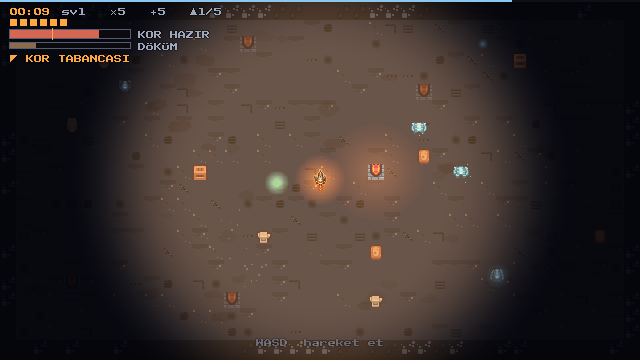
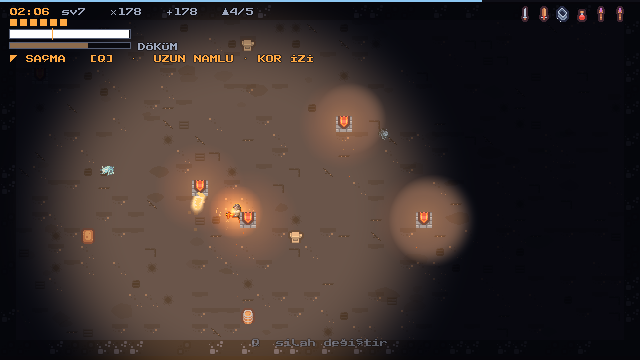
Tanitim varliklari 343bd49'dan yeniden uretildi + yakalama betigi duzeltildi
Eski varliklar 15 Eylul 12:40'ta alinmisti. Sonrasinda tema, menu ve dil
dosyalari degisti (58aef31, f227c41, 343bd49) -- yani kapak ve GIF
yayindaki oyunu gostermiyordu. ONAY-BEKLEYENLER'deki yayin oncesi
3. adim buydu.

Yakalama betigi kok nedeninden duzeltildi. Eski gif_cek.gd oyuncuya HIC
girdi vermiyordu; sadece isiyi ramp edip kare yaziyordu. 8ea08c5 (zorluk
egrisi duzlestirildi) ve 343bd49 (isi yavaslatildi) sonrasinda ilk
saniyeler bosaldi, bu yuzden yeniden cekim hareketsiz ve ogretici yazisi
ekranda duran bir kare dizisi uretti (00:06, ekranda dusman yok).

Betik artik tests/denge.gd'yi genisletiyor -- orada zaten gercek oyunu
oynayan bot politikasi var (bot_aktif, _politika(), kart secimi). Bot 120
oyun saniyesi normal oynuyor, sonra isi rampasi uygulaniyor. Politika
kopyalanmadi, miras alindi: denge ayari degisince tanitim cekimi de
kendiliginden guncel kalir.

Kapak tahminle degil olculerek secildi. Ilk yeniden kirpim 15 Eylul'de
zaten elenmis olan tuzaga tekrar dustu (ortadan kirpim -> 85/66:
parlaklik bandin ustunde, kontrast esigin altinda). Dort kare x uc
pencere kapsul-testi.mjs ile olculdu; secilen k030 sol (315x250+162+70)
parlakligi 48-74 bandinda kalan VE kontrasti en yuksek tek aday:

  66 parlaklik / 104 kontrast / %43 odak   (onceki kapak: 56 / 96 / %48)

Kontrast ilk kez rakip esiginin (98) ustunde. Kirpim birebir, olcekleme
yok -- piksel sanati yeniden orneklenmiyor.

GIF'ler belgelenen bicimde kaldi: palindrom (k090 -> k000 -> k088), en
[…]

diff --git a/tanitim/OKU.md b/tanitim/OKU.md
@@ -1,13 +1,14 @@
 # Tanıtım varlıkları — itch sayfası için
 
-**15 Eylül 12:40'ta, `d454f92` derlemesinden yeniden üretildi.** Öncekiler
-sabah 00:43'te alınmıştı, yani parıltı katmanı, yeni zemin karoları,
-çekirdek imzaları, yeni HUD ve günlük koşu düğmesi **hiçbiri yoktu**.
+**21 Eylül 07:1x'te, `343bd49` derlemesinden yeniden üretildi.** Öncekiler
+15 Eylül 12:40'ta alınmıştı; sonrasında tema, menü ve dil dosyaları
+değişti (`58aef31`, `f227c41`, `343bd49` — "ısı yavaşlatıldı, ana ekran
+sadeleştirildi"), yani eski varlıklar **yayındaki oyunu göstermiyordu**.
 
 | dosya | ne |
 |---|---|
 | `kapak-315x250.png` | itch kapak görseli |
-| `kor-640.gif` · `kor-480.gif` | 12 fps, 100 kare, **kusursuz döngü** |
+| `kor-640.gif` · `kor-480.gif` | 12 fps, 90 kare, **kusursuz döngü** |
 | `ilk-kare.png` | GIF'in ilk karesi (durağan önizleme) |
 | `gif_cek.gd` | üretici betik |
 
@@ -17,40 +18,71 @@ sabah 00:43'te alınmıştı, yani parıltı katmanı, yeni zemin karoları,
 
 | | parlaklık | kontrast | odak |
 |---|---|---|---|
-| **Kor (bu kapak)** | **56** | **96** | **%48** |
+| **Kor (bu kapak)** | **66** | **104** | **%43** |
 | Hades | 62 | 157 | %25 |
 | Brotato | 57 | 148 | %19 |
 | Vampire Survivors | 52 | 141 | %20 |
 | Halls of Torment | 48 | 98 | %41 |
 
-Parlaklık VS ile Brotato arasında, kontrast HoT'un hemen altında, **odak
-hepsinden yüksek**. Odağın yüksek olması Kor için doğru: görsel tek bir
-sıcak havuza bakıyor, kenarları karanlık yiyor — oyunun tezi bu.
+Parlaklık Hades'in hemen üstünde, kontrast **rakip eşiğinin (98) üstünde**
+— önceki kapak 96 ile eşiğin altında kalıyordu. Odak HoT'unkine yakın.
+Odağın yüksek olması Kor için doğru: görsel birkaç sıcak havuza bakıyor,
+kenarları karanlık yiyor — oyunun tezi bu.
 
 ### Kırpma nasıl seçildi
 
-Üç deneme yapıldı, ilk ikisi elendi:
+**Aynı tuzağa iki kez düşüldü.** 15 Eylül'de "ışık havuzunun ortası"
+denemesi 89/37 ile elenmişti; 21 Eylül'deki ilk yeniden çekimde ortadan
+kırpılan kare yine **85/66** verdi — parlaklık bandın üstünde, kontrast
+eşiğin altında. Ders: ışık havuzunu ortalama, **karanlığı kadraja al**.
 
-1. **En parlak kare, tam kare** → 20/46/%16. Arayüz çerçevesi içeride ve
-   küçük resimde gri lekeye dönüyordu.
-2. **Işık havuzunun ortası** → 89/37/%33. Çok parlak, **kontrast çöktü** —
-   karanlık kalmayınca Kor'a benzemiyor.
-3. **Seçilen:** parlaklığı rakip bandına (56–74) sabitleyip **kontrastı
-   maksimize eden** pencere. Yani kare hem ışık havuzunu hem karanlığı
-   içeriyor. Arayüz bandı (üst 118 px, alt 30 px) kırpma dışında.
+Bu sefer tahmin edilmedi. Dört kare × üç pencere aynı araçla ölçüldü:
+
+| aday | parlaklık | kontrast | odak |
+|---|---|---|---|
+| k010 sol | 24 | 95 | %94 |
+| k030 orta | 47 | 102 | %27 |
+| **k030 sol** | **66** | **104** | **%43** |
+| k050 orta | 75 | 104 | %33 |
+| k075 orta (ilk deneme) | 85 | 66 | %38 |
+| k075 sol | 50 | 98 | %66 |
+
+Seçilen **k030 sol** (`crop=315x250+162+70`): parlaklığı 48–74 bandında
+kalan **ve kontrastı en yüksek** tek aday. Ölçeklenmiyor — 315x250 birebir
+kırpım, piksel sanatı yeniden örneklenmiyor. Arayüz bandı (üst 118 px,
+alt 30 px) kırpma dışında.
 
 ## GIF döngüsü
 
-Döngü **en parlak kareden** başlıyor (k050 ölçüldü) ve palindrom:
-`k050 → k000 → k049`. İki iş birden:
+Döngü **en parlak kareden** başlıyor (ısı rampasının tepesi, k090) ve
+palindrom: `k090 → k000 → k088`, iki karede bir örneklenerek 90 kare.
+İki iş birden:
 
 1. Durağan önizleme **aydınlık** kare oluyor — karanlıkla başlasa çoğu
    yerde siyah dikdörtgen görünürdü.
 2. Isı düşünce karanlık kapanıyor, yükselince açılıyor — **mekaniği tek
    harekette, metinsiz** anlatıyor.
 
-`ffmpeg` `palettegen`/`paletteuse` ile `dither=none` ve `flags=neighbor`:
-piksel sanatı bulanmıyor, renk bandı oluşmuyor.
+`ffmpeg` `palettegen`/`paletteuse` ile `dither=none`, `flags=neighbor` ve
+`max_colors=64`: piksel sanatı bulanmıyor, renk bandı oluşmuyor, 640'lık
+dosya 3 MB sınırının altında kalıyor (2,95 MB).
+
+## Yakalama betiği neden değişti
+
+Eski `gif_cek.gd` oyuncuya **hiç girdi vermiyordu** — sadece ısıyı ramp
+edip kare yazıyordu. 15 Eylül'de bu yeterliydi; `8ea08c5` (zorluk eğrisi)
+ve `343bd49` (ısı yavaşlatıldı) sonrasında ilk saniyeler boşaldı ve
+yeniden çekim **hareketsiz, öğretici yazısı ekranda duran** bir kare
+dizisi üretti (00:06, düşman yok).
+
+Betik artık `tests/denge.gd`'yi genişletiyor: orada zaten **gerçek oyunu
+oynayan** bot politikası var (`bot_aktif`, `_politika()`, kart seçimi).
+Bot 120 oyun saniyesi normal oynuyor — arena doluyor, seviye atlanıyor,
+öğretici yazısı gidiyor — sonra ısı rampası uygulanıyor. Sonuç: 02:05,
+sv7, 176 öldürme, ekranda dört düşman, oyuncu ateş ediyor.
+
+Politika kopyalanmadı, miras alındı: denge ayarı değişince tanıtım
+çekimi de kendiliğinden güncel kalıyor.
 
 ## Not
 
